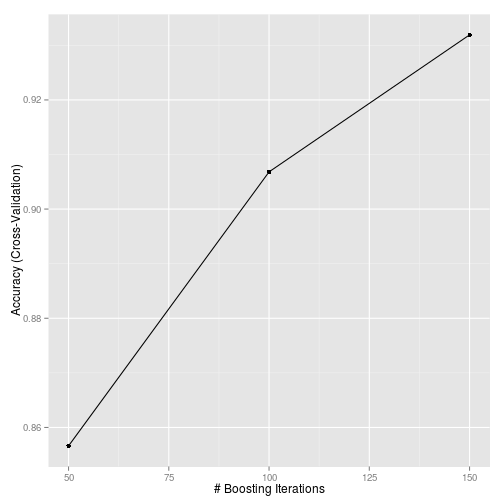
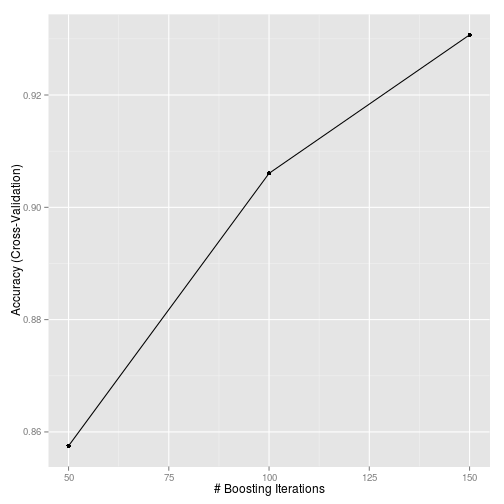
smaller changes

diff --git a/ProjectReport.html b/ProjectReport.html
@@ -211,7 +211,7 @@ index &lt;- index[!index %in% remove]
 
 <p>In order to get the training and validation data the data frame completeData is split into two groups using the function createDataPartition. The training data is used for the training purposes and the validation data is used for the cross validation later on. The training data consists of 80% of the completeData whereas the validation data consists of the remaining 20%. </p>
 
-<pre><code class="r">set.seed(1300)
+<pre><code class="r">set.seed(1234)
 trainingIndex &lt;- createDataPartition(y = completeData$classe, p = 0.8, list = FALSE)
 trainingData &lt;- completeData[trainingIndex, index]
 validationData &lt;- completeData[-trainingIndex, index]
@@ -253,24 +253,24 @@ modGbm0 &lt;- train(classe ~ ., data = trainingData, method = &quot;gbm&quot;, t
 ## Selecting tuning parameters
 ## Fitting n.trees = 150, interaction.depth = 2, shrinkage = 0.1 on full training set
 ## Iter   TrainDeviance   ValidDeviance   StepSize   Improve
-##      1        1.6094            -nan     0.1000    0.1825
-##      2        1.4895            -nan     0.1000    0.1301
-##      3        1.4059            -nan     0.1000    0.1035
-##      4        1.3392            -nan     0.1000    0.0873
-##      5        1.2837            -nan     0.1000    0.0697
-##      6        1.2393            -nan     0.1000    0.0603
-##      7        1.2005            -nan     0.1000    0.0596
-##      8        1.1629            -nan     0.1000    0.0544
-##      9        1.1283            -nan     0.1000    0.0513
-##     10        1.0965            -nan     0.1000    0.0360
-##     20        0.9002            -nan     0.1000    0.0254
-##     40        0.6864            -nan     0.1000    0.0139
-##     60        0.5525            -nan     0.1000    0.0058
-##     80        0.4680            -nan     0.1000    0.0057
-##    100        0.4032            -nan     0.1000    0.0023
-##    120        0.3541            -nan     0.1000    0.0030
-##    140        0.3124            -nan     0.1000    0.0026
-##    150        0.2946            -nan     0.1000    0.0029
+##      1        1.6094            -nan     0.1000    0.1828
+##      2        1.4898            -nan     0.1000    0.1286
+##      3        1.4069            -nan     0.1000    0.1039
+##      4        1.3389            -nan     0.1000    0.0796
+##      5        1.2873            -nan     0.1000    0.0712
+##      6        1.2420            -nan     0.1000    0.0613
+##      7        1.2039            -nan     0.1000    0.0656
+##      8        1.1628            -nan     0.1000    0.0546
+##      9        1.1281            -nan     0.1000    0.0447
+##     10        1.0999            -nan     0.1000    0.0471
+##     20        0.8957            -nan     0.1000    0.0196
+##     40        0.6847            -nan     0.1000    0.0098
+##     60        0.5671            -nan     0.1000    0.0079
+##     80        0.4761            -nan     0.1000    0.0077
+##    100        0.4073            -nan     0.1000    0.0031
+##    120        0.3563            -nan     0.1000    0.0043
+##    140        0.3118            -nan     0.1000    0.0017
+##    150        0.2949            -nan     0.1000    0.0033
 </code></pre>
 
 <h2>Parameter impact on the trained model</h2>
@@ -280,13 +280,13 @@ modGbm0 &lt;- train(classe ~ ., data = trainingData, method = &quot;gbm&quot;, t
 <pre><code class="r">ggplot(modGbm0)
 </code></pre>
 
[2 lines of base64/hex data omitted]
 
 <pre><code class="r">gbmVarImp &lt;- varImp(modGbm0, scale = FALSE)
 plot(gbmVarImp, top = 20)
 </code></pre>
 
[2 lines of base64/hex data omitted]
 
 <pre><code class="r">gbmGrid &lt;- expand.grid(.interaction.depth = 3, .n.trees = 1000, .shrinkage = 0.05)
 
@@ -297,73 +297,73 @@ modGbm &lt;- train(classe ~ ., data = trainingData, method = &quot;gbm&quot;, tu
 <pre><code>## Aggregating results
 ## Fitting final model on full training set
 ## Iter   TrainDeviance   ValidDeviance   StepSize   Improve
-##      1        1.6094            -nan     0.0500    0.1258
-##      2        1.5327            -nan     0.0500    0.1031
-##      3        1.4691            -nan     0.0500    0.0902
-##      4        1.4143            -nan     0.0500    0.0770
-##      5        1.3670            -nan     0.0500    0.0666
-##      6        1.3258            -nan     0.0500    0.0634
-##      7        1.2871            -nan     0.0500    0.0562
-##      8        1.2528            -nan     0.0500    0.0532
-##      9        1.2201            -nan     0.0500    0.0436
-##     10        1.1931            -nan     0.0500    0.0382
-##     20        0.9816            -nan     0.0500    0.0229
-##     40        0.7574            -nan     0.0500    0.0146
-##     60        0.6274            -nan     0.0500    0.0074
-##     80        0.5354            -nan     0.0500    0.0074
-##    100        0.4666            -nan     0.0500    0.0048
-##    120        0.4112            -nan     0.0500    0.0037
-##    140        0.3656            -nan     0.0500    0.0032
-##    160        0.3305            -nan     0.0500    0.0026
-##    180        0.2993            -nan     0.0500    0.0020
-##    200        0.2737            -nan     0.0500    0.0021
-##    220        0.2508            -nan     0.0500    0.0015
-##    240        0.2305            -nan     0.0500    0.0013
-##    260        0.2110            -nan     0.0500    0.0011
-##    280        0.1955            -nan     0.0500    0.0011
-##    300        0.1805            -nan     0.0500    0.0008
-##    320        0.1680            -nan     0.0500    0.0007
-##    340        0.1568            -nan     0.0500    0.0006
-##    360        0.1469            -nan     0.0500    0.0004
-##    380        0.1377            -nan     0.0500    0.0003
-##    400        0.1288            -nan     0.0500    0.0005
-##    420        0.1209            -nan     0.0500    0.0003
-##    440        0.1133            -nan     0.0500    0.0004
-##    460        0.1064            -nan     0.0500    0.0002
-##    480        0.1006            -nan     0.0500    0.0003
-##    500        0.0950            -nan     0.0500    0.0003
-##    520        0.0899            -nan     0.0500    0.0003
-##    540        0.0850            -nan     0.0500    0.0003
-##    560        0.0805            -nan     0.0500    0.0005
-##    580        0.0763            -nan     0.0500    0.0001
-##    600        0.0725            -nan     0.0500    0.0003
-##    620        0.0686            -nan     0.0500    0.0001
-##    640        0.0652            -nan     0.0500    0.0001
-##    660        0.0618            -nan     0.0500    0.0001
-##    680        0.0589            -nan     0.0500    0.0001
-##    700        0.0561            -nan     0.0500    0.0002
-##    720        0.0534            -nan     0.0500    0.0001
-##    740        0.0510            -nan     0.0500    0.0001
-##    760        0.0486            -nan     0.0500    0.0001
-##    780        0.0463            -nan     0.0500    0.0000
-##    800        0.0441            -nan     0.0500    0.0000
-##    820        0.0423            -nan     0.0500    0.0001
-##    840        0.0405            -nan     0.0500    0.0001
-##    860        0.0387            -nan     0.0500    0.0001
-##    880        0.0371            -nan     0.0500    0.0001
-##    900        0.0355            -nan     0.0500    0.0000
-##    920        0.0340            -nan     0.0500    0.0001
-##    940        0.0325            -nan     0.0500    0.0000
-##    960        0.0311            -nan     0.0500    0.0000
-##    980        0.0298            -nan     0.0500    0.0000
-##   1000        0.0286            -nan     0.0500    0.0000
+##      1        1.6094            -nan     0.0500    0.1212
+##      2        1.5327            -nan     0.0500    0.1011
+##      3        1.4704            -nan     0.0500    0.0867
+##      4        1.4175            -nan     0.0500    0.0761
+##      5        1.3710            -nan     0.0500    0.0690
+##      6        1.3292            -nan     0.0500    0.0607
+##      7        1.2918            -nan     0.0500    0.0573
+##      8        1.2565            -nan     0.0500    0.0505
+##      9        1.2255            -nan     0.0500    0.0436
+##     10        1.1985            -nan     0.0500    0.0392
+##     20        0.9808            -nan     0.0500    0.0233
+##     40        0.7564            -nan     0.0500    0.0117
+##     60        0.6291            -nan     0.0500    0.0100
+##     80        0.5377            -nan     0.0500    0.0051
+##    100        0.4699            -nan     0.0500    0.0039
+##    120        0.4142            -nan     0.0500    0.0029
+##    140        0.3711            -nan     0.0500    0.0037
+##    160        0.3336            -nan     0.0500    0.0041
+##    180        0.3007            -nan     0.0500    0.0014
+##    200        0.2726            -nan     0.0500    0.0014
+##    220        0.2471            -nan     0.0500    0.0018
+##    240        0.2283            -nan     0.0500    0.0010
+##    260        0.2109            -nan     0.0500    0.0007
+##    280        0.1948            -nan     0.0500    0.0006
+##    300        0.1814            -nan     0.0500    0.0005
+##    320        0.1698            -nan     0.0500    0.0007
+##    340        0.1583            -nan     0.0500    0.0005
+##    360        0.1479            -nan     0.0500    0.0006
+##    380        0.1385            -nan     0.0500    0.0005
+##    400        0.1296            -nan     0.0500    0.0003
+##    420        0.1218            -nan     0.0500    0.0003
+##    440        0.1145            -nan     0.0500    0.0003
+##    460        0.1080            -nan     0.0500    0.0003
+##    480        0.1018            -nan     0.0500    0.0004
+##    500        0.0964            -nan     0.0500    0.0001
+##    520        0.0912            -nan     0.0500    0.0003
+##    540        0.0864            -nan     0.0500    0.0002
+##    560        0.0820            -nan     0.0500    0.0002
+##    580        0.0780            -nan     0.0500    0.0002
+##    600        0.0740            -nan     0.0500    0.0001
+##    620        0.0702            -nan     0.0500    0.0001
+##    640        0.0667            -nan     0.0500    0.0002
+##    660        0.0633            -nan     0.0500    0.0001
+##    680        0.0602            -nan     0.0500    0.0001
+##    700        0.0574            -nan     0.0500    0.0001
+##    720        0.0546            -nan     0.0500    0.0001
+##    740        0.0521            -nan     0.0500    0.0001
+##    760        0.0496            -nan     0.0500    0.0001
+##    780        0.0472            -nan     0.0500    0.0001
+##    800        0.0450            -nan     0.0500    0.0001
+##    820        0.0428            -nan     0.0500    0.0002
+##    840        0.0409            -nan     0.0500    0.0000
+##    860        0.0390            -nan     0.0500    0.0001
+##    880        0.0373            -nan     0.0500    0.0000
+##    900        0.0358            -nan     0.0500    0.0001
+##    920        0.0342            -nan     0.0500    0.0001
+##    940        0.0328            -nan     0.0500    0.0000
+##    960        0.0315            -nan     0.0500    0.0001
+##    980        0.0301            -nan     0.0500    0.0001
+##   1000        0.0288            -nan     0.0500    0.0000
 </code></pre>
 
 <pre><code class="r">
 modGbm$resample$Accuracy
 </code></pre>
 
-<pre><code>## [1] 0.9869 0.9895 0.9920 0.9914 0.9866
+<pre><code>## [1] 0.9927 0.9863 0.9911 0.9908 0.9898
 </code></pre>
 
 <h2>Prediction and cross validation of the validation data</h2>
@@ -380,39 +380,39 @@ ConfMatrix
 ## 
 ##           Reference
 ## Prediction    A    B    C    D    E
-##          A 1116    5    0    0    0
-##          B    0  752    4    0    0
-##          C    0    2  678    7    1
-##          D    0    0    2  634    2
-##          E    0    0    0    2  718
+##          A 1114    4    0    0    2
+##          B    1  753    8    0    1
+##          C    0    2  673    2    1
+##          D    1    0    3  640    2
+##          E    0    0    0    1  715
 ## 
 ## Overall Statistics
-##                                         
-##                Accuracy : 0.994         
-##                  95% CI : (0.991, 0.996)
-##     No Information Rate : 0.284         
-##     P-Value [Acc &gt; NIR] : &lt;2e-16        
-##                                         
-##                   Kappa : 0.992         
-##  Mcnemar&#39;s Test P-Value : NA            
+##                                        
+##                Accuracy : 0.993        
+##                  95% CI : (0.99, 0.995)
+##     No Information Rate : 0.284        
+##     P-Value [Acc &gt; NIR] : &lt;2e-16       
+##                                        
+##                   Kappa : 0.991        
+##  Mcnemar&#39;s Test P-Value : NA           
 ## 
 ## Statistics by Class:
 ## 
 ##                      Class: A Class: B Class: C Class: D Class: E
-## Sensitivity             1.000    0.991    0.991    0.986    0.996
-## Specificity             0.998    0.999    0.997    0.999    0.999
-## Pos Pred Value          0.996    0.995    0.985    0.994    0.997
-## Neg Pred Value          1.000    0.998    0.998    0.997    0.999
+## Sensitivity             0.998    0.992    0.984    0.995    0.992
+## Specificity             0.998    0.997    0.998    0.998    1.000
+## Pos Pred Value          0.995    0.987    0.993    0.991    0.999
+## Neg Pred Value          0.999    0.998    0.997    0.999    0.998
 ## Prevalence              0.284    0.193    0.174    0.164    0.184
-## Detection Rate          0.284    0.192    0.173    0.162    0.183
-## Detection Prevalence    0.286    0.193    0.175    0.163    0.184
-## Balanced Accuracy       0.999    0.995    0.994    0.992    0.998
+## Detection Rate          0.284    0.192    0.172    0.163    0.182
+## Detection Prevalence    0.285    0.194    0.173    0.165    0.183
+## Balanced Accuracy       0.998    0.994    0.991    0.997    0.996
 </code></pre>
 
 <pre><code class="r">1 - ConfMatrix$overall[&quot;Accuracy&quot;][[1]]
 </code></pre>
 
-<pre><code>## [1] 0.006373
+<pre><code>## [1] 0.007137
 </code></pre>
 
 <h2>References</h2>
